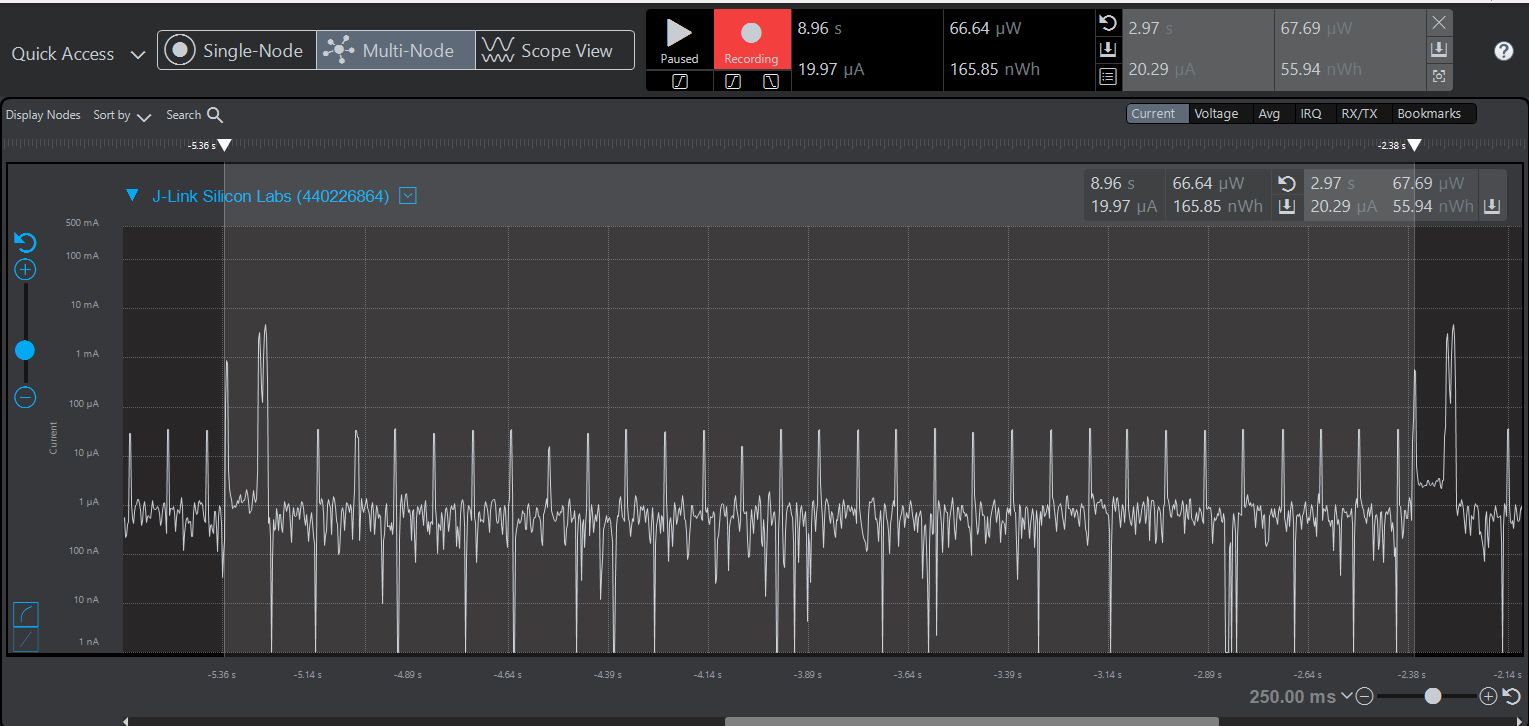
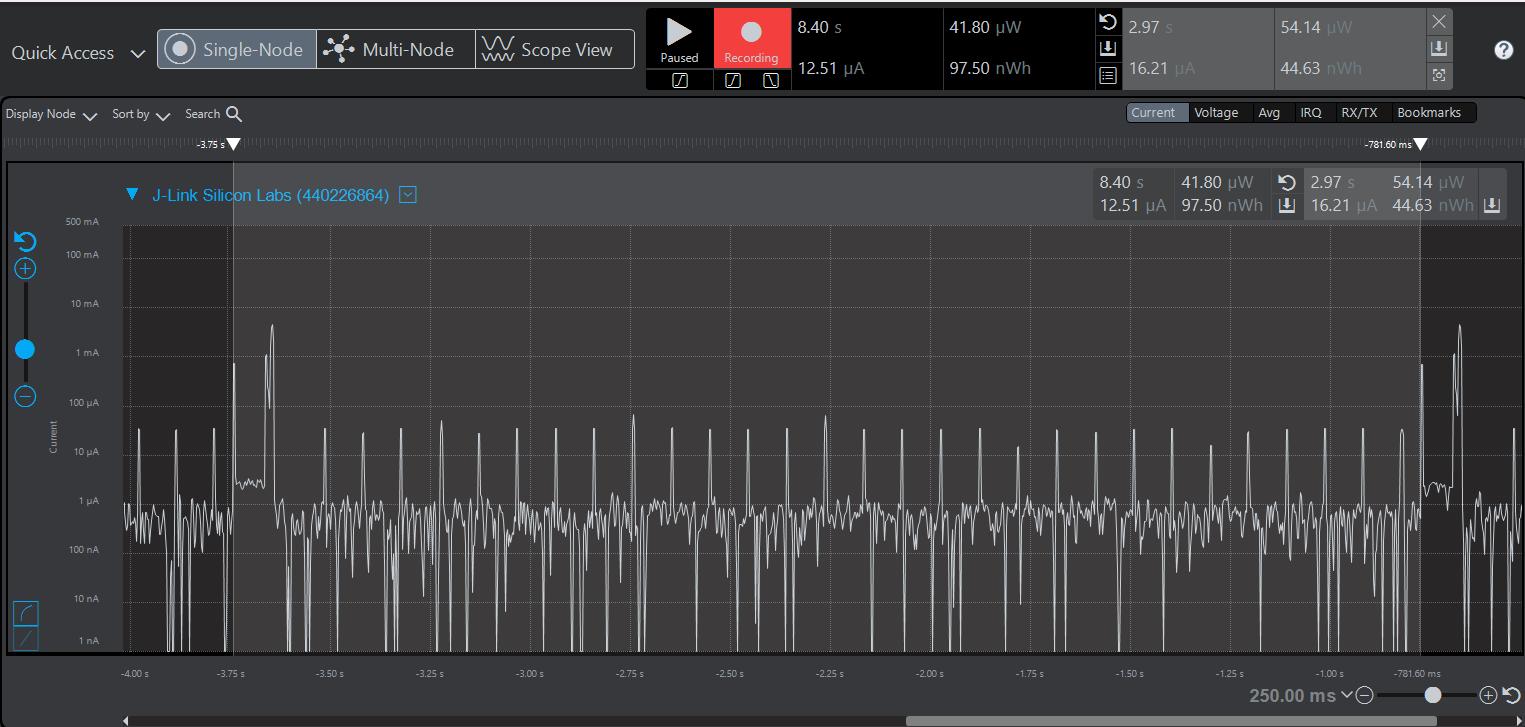
updated

diff --git a/questions/Assignment4-I2CLoadPowerManagementPart2.md b/questions/Assignment4-I2CLoadPowerManagementPart2.md
@@ -6,40 +6,40 @@ See [Mastering Markdown](https://guides.github.com/features/mastering-markdown/)
 *Please include screenshots of the profiler window detailing each current measurement captured.  See the file Instructions to add screenshots in assignment.docx in the ECEN 5823 Student Public Folder.* 
 
 1. What is the average current per period? (Remember, once you have measured your average current, average current is average current over all time. Average current doesn’t carry with it the units of the timespan over which it was measured).
-   Answer:20.29uA
+   Answer:16.21uA
    <br>Screenshot:  
    ![Avg_current_per_period](screenshots/assignment4/avg_current_per_period.png)  
 
 2. What is the ave current from the time we sleep the MCU to EM3 until we power-on the 7021 in response to the LETIMER0 UF IRQ?
-   Answer:2.94uA
+   Answer:2.33uA
    <br>Screenshot:  
    ![Avg_current_LPM_Off](screenshots/assignment4/avg_current_lpm_off.png)  
 
 3. What is the ave current from the time we power-on the 7021 until we get the COMP1 IRQ indicating that the 7021's maximum time for conversion (measurement) has expired.
-   Answer:121.77uA
+   Answer:115.82uA
    <br>Screenshot:  
    ![Avg_current_LPM_On](screenshots/assignment4/avg_current_lpm_on.png)  
 
 4. How long is the Si7021 Powered On for 1 temperature reading?
-   Answer:101.4ms
+   Answer:98.9ms
    <br>Screenshot:  
    ![duration_lpm_on](screenshots/assignment4/duration_lpm_on.png)  
 
 5. Given the average current per period from Q1, calculate the operating time of the system for a 1000mAh battery? - ignoring battery manufacturers, efficiencies and battery derating - just a first-order calculation.
    Answer (in hours):
-   Average current = 20.29uA = 0.02029mA
+   Average current = 16.21uA = 0.01621 mA
    Battery capacity = 1000mA per hour
-   operating time = battery capacity/average current =1000mAh/0.02029mA =49,285 hours
+   operating time = battery capacity/average current =1000mAh/0.02029mA =61,690 hours
    
 6. How has the power consumption performance of your design changed since the previous assignment?
    Answer:
  |--------------------------------------------------------------------------------------------------|
  |   AVERAGE CURRENT             |  BLOCKING CALL -assignment 3 |  NON-BLOCKING CALLS -assignment 4 |
  |--------------------------------------------------------------------------------------------------|
- | Per period                    |         155.17uA             |            20.29uA                |
- | During sleep until power-on   |         7.59uA               |            2.94uA                 |
- |From power-on till wait expires|         4.87mA               |            121.77uA               |
- |operating time for 1000mAh Bt  |         6,445hrs             |            49,285hrs              |
+ | Per period                    |         155.17uA             |            16.21uA                |
+ | During sleep until power-on   |         7.59uA               |            2.33uA                 |
+ |From power-on till wait expires|         4.87mA               |            115.82uA               |
+ |operating time for 1000mAh Bt  |         6,445hrs             |            61,690hrs              |
  |--------------------------------------------------------------------------------------------------|                                                              
    From the above table, it is evident that the average currents is less in assignment-4 than in the previous assignment.
    Thus the power consumption when using  non-blocking calls(interrupt based waits and i2c transfers) in assignment-4 is less compared to the blocking calls(polling based waits and i2c transfers) in assignmnet-3. 
